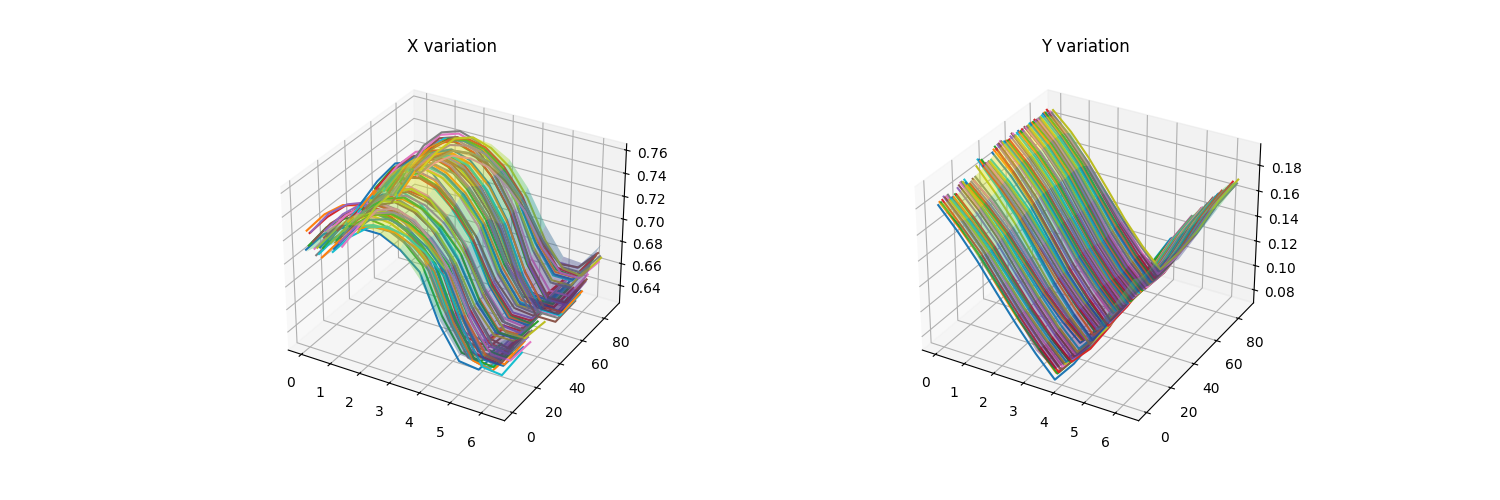
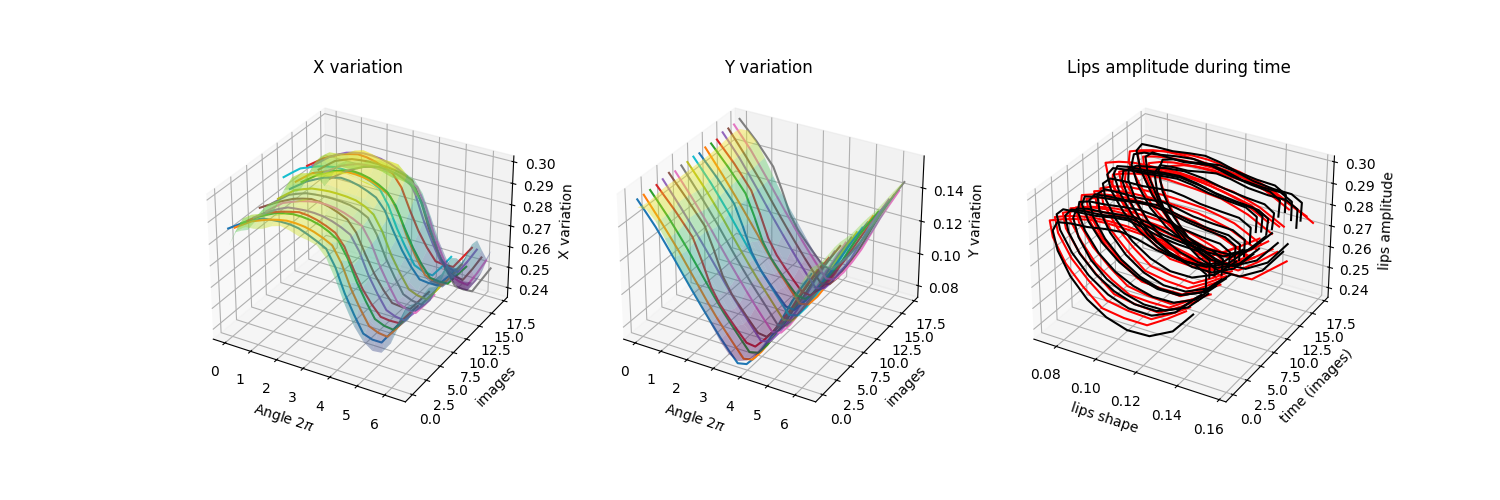
commit 2

diff --git a/detectFace.py b/detectFace.py
@@ -1,6 +1,9 @@
 import cv2
 import numpy as np
 from insightface.app import FaceAnalysis
+import matplotlib.pyplot as plt
+from matplotlib.animation import FuncAnimation
+from math import tau
 
 class DetectFace:
     def __init__(self, path) -> None:
@@ -8,19 +11,49 @@ class DetectFace:
         self.app.prepare(ctx_id=0, det_size=(640, 640))
         self.path = path
         self.read_video()
+        self.interpolation()
+        self.analyse()
         
     def read_video(self):
         cap = cv2.VideoCapture(self.path)
         frame_count = int(cap.get(cv2.CAP_PROP_FRAME_COUNT))
-        self.mat_lips = np.zeros((frame_count, 20, 2), int)
+        
+        
         n = 0
-        self.arr_lips = []
         self.pts_3D = []
+        self.arr_lips = []
+        self.height = -1
+        self.width = -1
         while cap.isOpened():
             ret, frame = cap.read()
             if ret:
-                img = self.get_pred(frame)
-                cv2.imshow('', img)
+                pred = self.get_pred(frame)
+                face = None
+                if pred is not None:
+                    lips, pts, box = pred
+                    x, y, w, h = box
+                    cv2.rectangle(frame, (x, y), (w, h), (0, 255, 0), 2)
+                    if self.height < h:
+                        self.height = h
+                    if self.width < w:
+                        self.width = w
+                    
+                    hull = cv2.convexHull(lips, returnPoints=True)
+                    arr = []
+                    for [p] in hull:
+                        x, y = (p[0]-box[0])/box[2], (p[1]-box[1])/box[3]
+                        arr.append([x, y])
+                    
+                    self.arr_lips.append(arr)
+                    
+                    cv2.polylines(frame, [hull], True, (255, 255, 0), 4)
+                    
+                    for p in pts:
+                        cv2.circle(frame, p, 2, (255, 255, 255), -1)
+                    for p in lips:
+                        cv2.circle(frame, p, 5, (255, 0, 255), -1)
+                    
+                cv2.imshow('', frame)
                 key = cv2.waitKey(1)
                 if key == 27:
                     break
@@ -28,53 +61,153 @@ class DetectFace:
                     break
                 n += 1
         cap.release()
-            
         cv2.destroyAllWindows()
+    
         
     def get_pred(self, frame):
         pred = self.app.get(frame)
-        for p in pred:
-            box = np.array(p['bbox']).astype(int)
-            pts_3D = p['landmark_3d_68']
-            self.pts_3D.append(pts_3D)
-            pts = np.array(p['landmark_2d_106']).astype(int)
-            x, y, w, h = box
-            cv2.rectangle(frame, (x, y), (w, h), (0, 255, 0), 2)
-            
-            
+        if len(pred) == 1:
+            pred = pred[0]
+            box = np.array(pred['bbox']).astype(int)
+            pts = np.array(pred['landmark_2d_106']).astype(int)
             lips =  pts[52:72]
-            lips = cv2.convexHull(lips, returnPoints=True)
-            cv2.polylines(frame, [lips], True, (255, 255, 0), 5)
-            
-            
-            zero = pts[72]
-            cv2.circle(frame, zero, 10, (0, 255, 0), -1)
-            sub = []
-            for [p] in lips:
-                x, y = p[0]-zero[0], p[1]-zero[1]
-                x /= frame.shape[1]
-                y /= frame.shape[0]
-                sub.append([x, y])
-            self.arr_lips.append(sub)
-                
-            # rep = [pts[33], pts[72]]
-            # for p in rep:
-            #     cv2.circle(frame, p, 5, (0, 0, 255),)
-            
-            # left_eye = pts[33:52]
-            
-                
-            # rep1 = pts[72:75]
-            
-            # rep2 = pts[76:79]
-            
-            
+            return lips, pts, box
         
+    def interpolation(self):
+        h = len(self.arr_lips)
+        w = 20
+        self.mat_lips = np.zeros((h, w, 2), float)
+        for ind, line in enumerate(self.arr_lips):
+            x = [v[0] for v in line]
+            y = [v[1] for v in line]
+            angle = np.linspace(0, tau, len(x))
+            xvals = np.linspace(0, tau, w)
+            vx = np.interp(xvals, angle, x)
+            vy = np.interp(xvals, angle, y)
+            self.mat_lips[ind] = np.column_stack((vx, vy))
+            
+            
+    def analyse(self):
+        h, w = self.mat_lips.shape[:2]
+        mat_x = np.zeros((h, w), float)
+        mat_y = np.zeros((h, w), float)
+        for i in range(h):
+            for j in range(w):
+                p = self.mat_lips[i][j]
+                mat_x[i][j] = p[1]
+                mat_y[i][j] = p[0]
+                
+        coef_x, idft_x = self.calculCoef2D(mat_x, order=5)
+        coef_y, idft_y = self.calculCoef2D(mat_y, order=4)
+        mat_3D = np.zeros((h, w, 2), float)
+        for i in range(h):
+            for j in range(w):
+                x = idft_x[i][j]
+                y = idft_y[i][j]
+                mat_3D[i][j] = [y, x]
+        fig = plt.figure(figsize=(15, 5))
+        ax0 = fig.add_subplot(131, projection='3d')
+        ax1 = fig.add_subplot(132, projection='3d')
+        ax2 = fig.add_subplot(133, projection='3d')
+        ax2.set_title('Lips amplitude during time')
+        
+        self.plot_mat(mat_x, ax0, title='X variation')
+        self.plot_mat(mat_y, ax1, title='Y variation')
+        self.plot_surface(idft_x, ax0)
+        self.plot_surface(idft_y, ax1)
+        self.plot_lips(self.mat_lips, ax2, color='red')
+        self.plot_lips(mat_3D, ax2, color='black')
+        fig.savefig('3d_plot_mounth.png')
+        plt.show()
+        
+    def plot_lips(self, mat, ax, color):
+        h, w = mat.shape[:2]
+        for i in range(h):
+            x, y, z = [], [], []
+            for j in range(w):
+                p = mat[i][j]
+                x.append(p[0])
+                y.append(i)
+                z.append(p[1])
+            ax.plot3D(x, y, z, color)
+        ax.set_xlabel('lips shape')
+        ax.set_ylabel('time (images)')
+        ax.set_zlabel('lips amplitude')
+                
+            
+    def plot_surface(self, mat, ax):
+        h, w = mat.shape[:2]
+        angle = np.linspace(0, tau, w)
+        X, Y = np.meshgrid(angle, range(h))
+        ax.plot_surface(X, Y, mat, cmap='viridis', alpha=0.4)
+        
+    def plot_mat(self, mat, ax, title):
+        ax.set_title(title)
+        h, w = mat.shape[:2]
+        angle = np.linspace(0, tau, w)
+        for i in range(h):
+            x, y, z = [], [], []
+            for j in range(w):
+                v = mat[i][j]
+                x.append(angle[j])
+                y.append(i)
+                z.append(v)
+            ax.plot3D(x, y, z)
+        ax.set_xlabel(r'Angle $2\pi$')
+        ax.set_ylabel('images')
+        ax.set_zlabel(title)
+       
+        
+
+    def calculCoef2D(self, img, order=4):
+        dft_result = cv2.dft(img, flags=cv2.DFT_COMPLEX_OUTPUT)
+
+        # Repositionner le composant de fréquence zéro au milieu du spectre
+        shift = np.fft.fftshift(dft_result)
+        row, col = img.shape
+        center_row, center_col = row // 2, col // 2
+
+        # Créer un masque avec un carré centré de 1s
+        mask = np.zeros((row, col, 2), np.uint8)
+        rad = order
+        mask[center_row - rad:center_row + rad, center_col - rad:center_col + rad] = 1
+
+        # Appliquer le masque à la DFT
+        fft_shift = shift * mask
+
+        # Inverser le décalage pour obtenir la DFT originale
+        fft_ifft_shift = np.fft.ifftshift(fft_shift)
+
+        # Calculer l'inverse de la transformée de Fourier discrète 2D avec le masque
+        idft_result = cv2.idft(fft_ifft_shift, flags=cv2.DFT_SCALE | cv2.DFT_REAL_OUTPUT)
+        print('coef', idft_result.shape)
+
+        nonzero_indices = np.nonzero(mask[:, :, 0])
+        print(fft_ifft_shift.shape)
+
+        # Extraire les coefficients non nuls de la DFT
+        nonzero_coefficients = dft_result[nonzero_indices]
+        modified_coefficients = [(x, y, fft_shift[x, y, 0] + 1j * fft_shift[x, y, 1]) for x, y in zip(nonzero_indices[0], nonzero_indices[1])]
+        print(len(modified_coefficients))
+
+        return fft_shift, idft_result
     
+    
+    def plot_lips1(self):
+        self.fig = plt.figure(figsize=(15, 5))
+        self.ax = self.fig.add_subplot(211)
+        self.ax.set_xlim(0, self.width)
+        self.ax.set_ylim(0, self.height)
+        h, w = self.mat_lips.shape[:2]
+        self.animation = FuncAnimation(self.fig, self.update, frames=range(h), interval=200)
+        plt.show()
         
-        return frame
-            
-            
+    def update(self, frame):
+        self.ax.clear()
+        pts = self.mat_lips[frame]
+        x, y = [v[0] for v in pts], [v[1] for v in pts]
+        self.ax.scatter(x, y)
+        
   
        
         

diff --git a/speechReco.py b/speechReco.py
@@ -6,6 +6,7 @@ import numpy as np
 class SpeechRecognizer:
     def __init__(self, audio_file):
         self.audio_file = audio_file
+        self.sentence = None
 
     def recognize_from_audio_file(self):
         # Créer un objet Recognizer
@@ -18,6 +19,7 @@ class SpeechRecognizer:
 
             # Reconnaissance vocale avec Google Web Speech API
             text = r.recognize_google(audio_data, language="fr-FR")
+            self.sentence = text
             return text
         except sr.UnknownValueError:
             print("Google Web Speech API n'a pas pu comprendre l'audio")
@@ -37,18 +39,67 @@ class SpeechRecognizer:
         sample_rate = sound.frame_rate
         times = np.linspace(0, len(samples) / sample_rate, num=len(samples))
         
-        # # Créer le graphique
-        # plt.figure(figsize=(10, 4))
-        # plt.plot(times, samples, color='b')
-        # plt.xlim(0, times[-1])
-        # plt.xlabel('Temps (s)')
-        # plt.ylabel('Amplitude')
-        # plt.title('Forme d\'onde audio')
-        # plt.grid(True)
-        # plt.tight_layout()
-        # plt.show()
+        # Calculer la FFT
+        fft_result = np.fft.fft(samples)
+        freqs = np.fft.fftfreq(len(samples), 1/sample_rate)
+        
+        # Calculer l'amplitude du signal
+        amplitude = np.abs(fft_result)
+
+        # Filtrer les fréquences pour garder seulement la moitié positive
+        positive_freqs = freqs[:len(freqs)//2]
+        positive_amplitudes = amplitude[:len(amplitude)//2]
+
+        # Appliquer un seuil pour nettoyer le signal
+        threshold = np.max(amplitude) * 0.5  # Par exemple, 1% de l'amplitude maximale
+        fft_result_cleaned = np.where(amplitude > threshold, fft_result, 0)
+        
+        # Calculer l'IDFT avec les coefficients nettoyés
+        reconstructed_signal_cleaned = np.fft.ifft(fft_result_cleaned)
+        reconstructed_signal_cleaned = np.real(reconstructed_signal_cleaned)
+        
+        # Créer le graphique de la forme d'onde
+        plt.figure(figsize=(15, 4))
+        plt.subplot(1, 3, 1)
+        plt.plot(times, samples, color='b')
+        plt.title('Waveform')
+        plt.xlabel('Temps (s)')
+        plt.ylabel('Amplitude')
+        plt.grid(True)
+
+        # Créer le graphique du spectre de fréquences
+        plt.subplot(1, 3, 2)
+        plt.plot(positive_freqs, positive_amplitudes, color='r')
+        plt.title('Frequency Spectrum')
+        plt.xlabel('Frequency (Hz)')
+        plt.ylabel('Amplitude')
+        plt.grid(True)
+
+        # Créer le graphique du signal reconstruit nettoyé
+        plt.subplot(1, 3, 3)
+        plt.plot(times, reconstructed_signal_cleaned, color='g')
+        plt.title('Reconstructed Signal (Cleaned)')
+        plt.xlabel('Temps (s)')
+        plt.ylabel('Amplitude')
+        plt.grid(True)
+
+        plt.tight_layout()
+        plt.savefig('soundtrack.png')
+        plt.show()
         
         return times, samples
+    
+    def calculcoefFourier(self, signal, T):
+        N = len(signal)
+        fft_result = np.fft.fft(signal)
+        freqs = np.fft.fftfreq(N, T)
+        return fft_result, freqs
+
+    def calculResult(self, fft_result):
+        # Utiliser la transformée inverse pour reconstruire le signal
+        reconstructed_signal = np.fft.ifft(fft_result)
+        return np.real(reconstructed_signal)
+
 
 # Exemple d'utilisation de la classe SpeechRecognizer avec la méthode ajoutée
 if __name__ == "__main__":

diff --git a/drawFace.py b/drawFace.py
@@ -1,0 +1,39 @@
+import cv2
+import numpy as np
+from insightface.app import FaceAnalysis
+import matplotlib.pyplot as plt
+
+class DrawLandmarks:
+    def __init__(self, path) -> None:
+        self.app = FaceAnalysis()
+        self.app.prepare(ctx_id=0, det_size=(640, 640))
+        self.image = cv2.imread(path)
+        self.draw_image()
+    
+    def draw_image(self):
+        lips, pts, box = self.get_pred(self.image)
+        x, y, w, h = box
+        cv2.rectangle(self.image, (x, y), (w, h), (0, 255, 0), 4)
+        for p in lips:
+            cv2.circle(self.image, p, 4, (0, 0, 255), -1)
+        mouth = cv2.convexHull(lips, returnPoints=True)
+        cv2.polylines(self.image, [mouth], True, (255, 255, 0), 4)
+        cv2.imshow('', self.image)
+        cv2.waitKey(0)
+        title = 'result_img.jpg'
+        cv2.imwrite(title, self.image)
+        
+    
+            
+    def get_pred(self, frame):
+        pred = self.app.get(frame)
+        if len(pred) == 1:
+            pred = pred[0]
+            box = np.array(pred['bbox']).astype(int)
+            pts = np.array(pred['landmark_2d_106']).astype(int)
+            lips =  pts[52:72]
+            return lips, pts, box
+
+if __name__=='__main__':
+    path = 'face.jpg'
+    DrawLandmarks(path)

diff --git a/detectAudio.py b/detectAudio.py
@@ -5,6 +5,7 @@ import threading
 import numpy as np
 import os
 
+
 class VideoAudioRecorder:
     def __init__(self, video_filename='output_video.mp4', audio_filename='output_audio.wav',
                  frame_width=640, frame_height=480, fps=25, audio_channels=1, audio_rate=44100,
